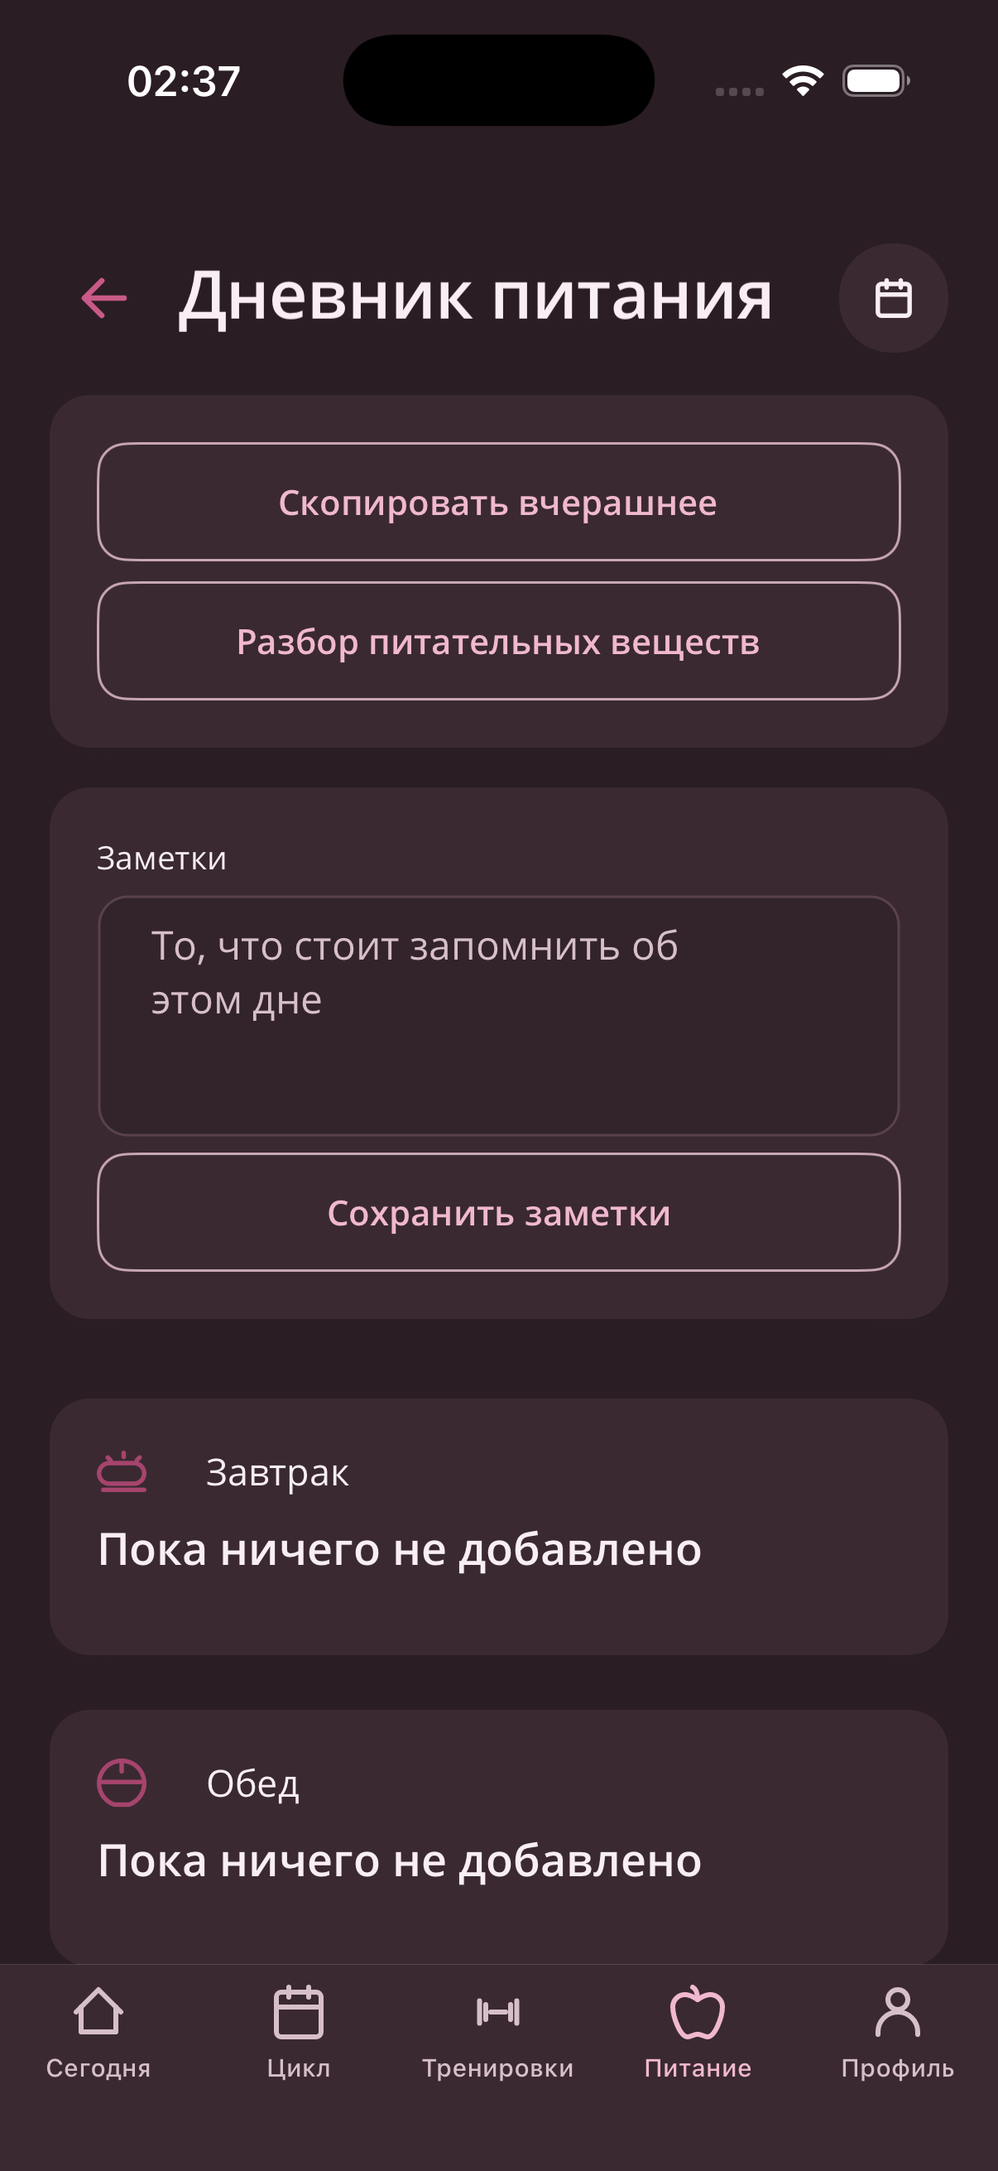
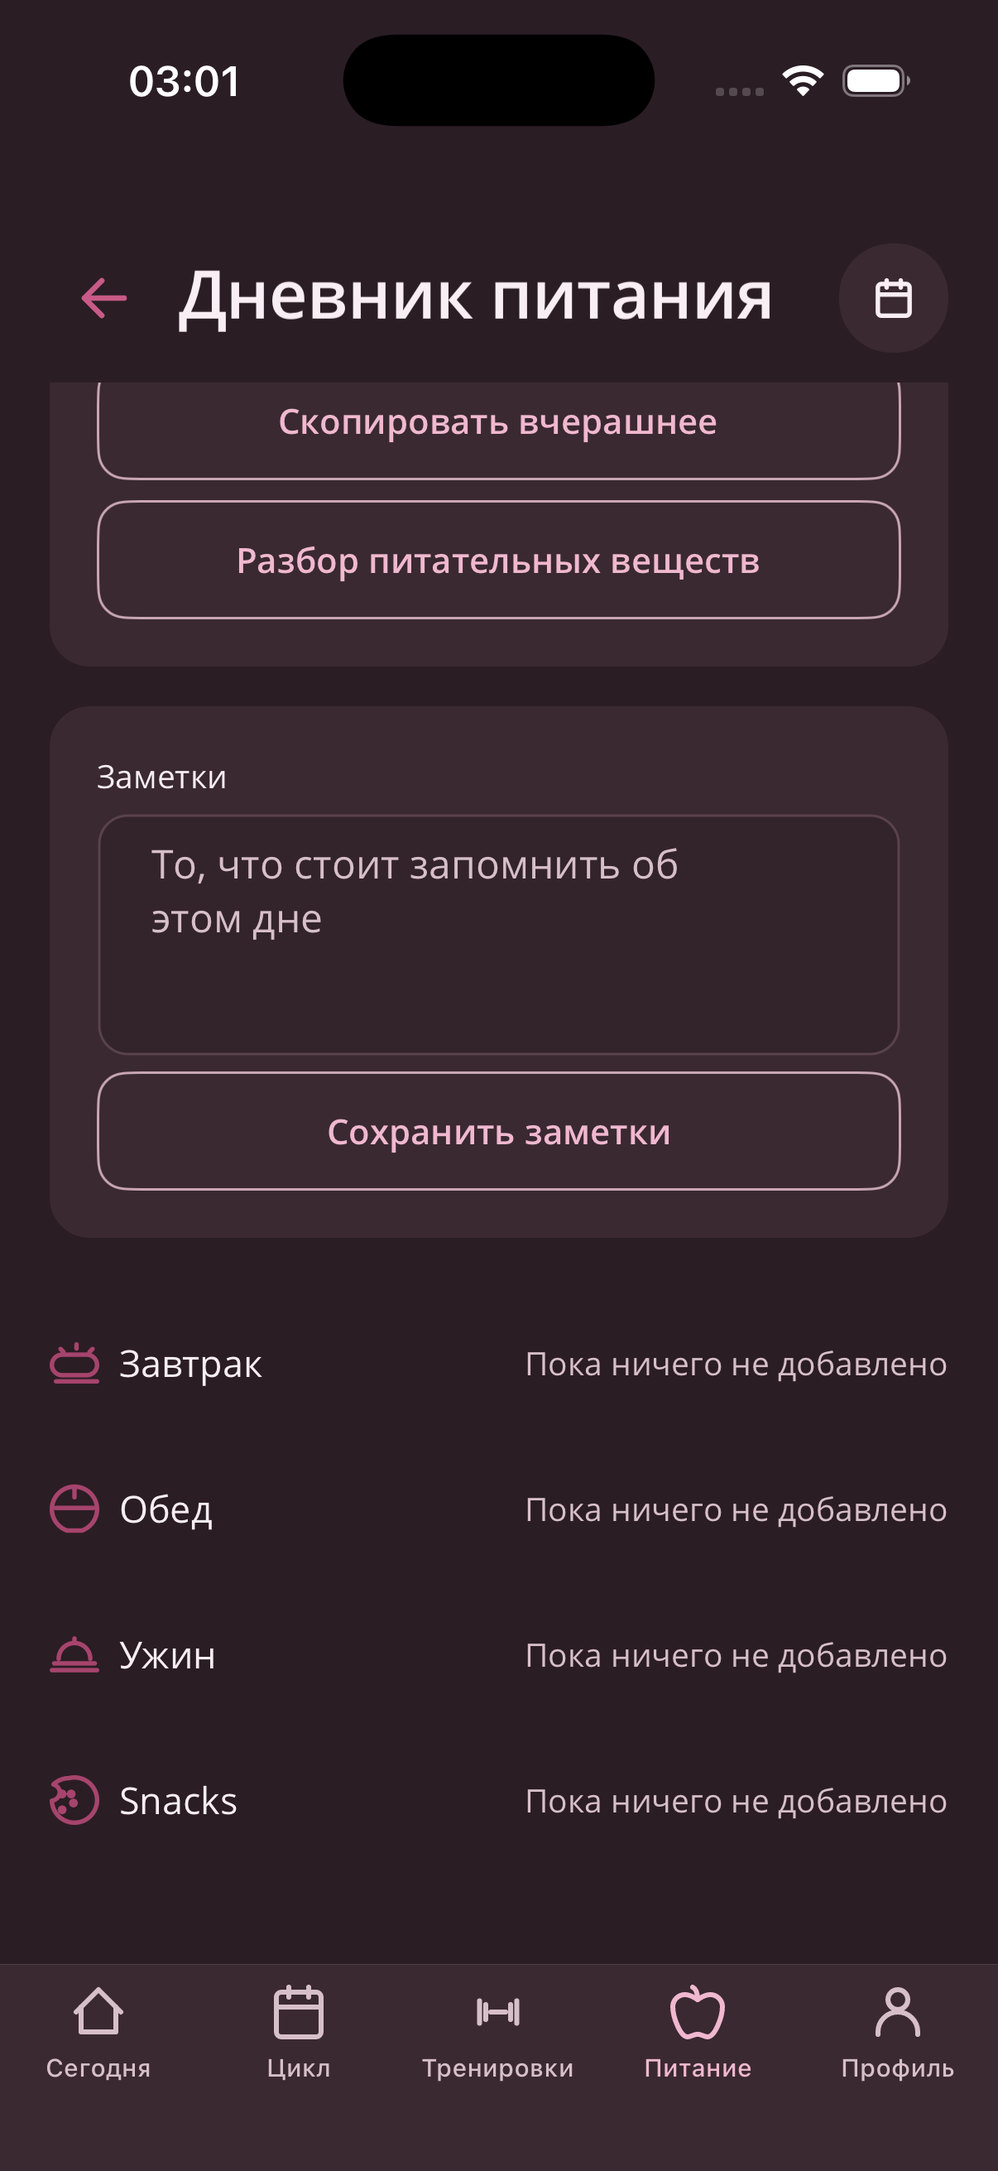
Render empty meal groups as quiet rows instead of cards
MealCardView now owns one rule for every section: the card surface exists only when HasContent, while an empty group is a single icon-and-statement row with no inner border, macros, actions or template slot. The shared control covers all four Food Log sections and Nutrition, and a contract guard freezes the shape.

diff --git a/src/MuscleCuties.UI/Controls/Nutrition/MealCardView.xaml b/src/MuscleCuties.UI/Controls/Nutrition/MealCardView.xaml
@@ -10,9 +10,12 @@
     xmlns:sharedControls="clr-namespace:MuscleCuties.UI.Controls.Shared"
     x:DataType="controls:MealCardView">
 
-    <Border
-        Style="{StaticResource CardPrimary}"
-        SemanticProperties.Description="{Binding SemanticDescription, Source={x:Reference Root}}">
+    <Grid>
+        <Border
+            x:Name="MealCardSurface"
+            IsVisible="{Binding HasContent, Source={x:Reference Root}}"
+            Style="{StaticResource CardPrimary}"
+            SemanticProperties.Description="{Binding SemanticDescription, Source={x:Reference Root}}">
         <Border.GestureRecognizers>
             <TapGestureRecognizer
                 Command="{Binding OpenCommand, Source={x:Reference Root}}"
@@ -116,5 +119,37 @@
 
             <ContentView Content="{Binding BelowContent, Source={x:Reference Root}}" />
         </VerticalStackLayout>
-    </Border>
+        </Border>
+
+        <!-- An empty meal group is a row, not a card. Keeping the icon and meal type gives it a
+             place in the list; the only content is the one empty statement. -->
+        <Grid
+            x:Name="EmptyMealRow"
+            IsVisible="{Binding IsEmpty, Source={x:Reference Root}}"
+            ColumnDefinitions="Auto,*,Auto"
+            ColumnSpacing="{StaticResource UiSpaceTight}"
+            Padding="{StaticResource UiInsets0_8}">
+            <Path
+                Data="{Binding MealTypeIconData, Source={x:Reference Root}, Converter={StaticResource StringToGeometryConverter}}"
+                Style="{StaticResource NutritionLineIcon}"
+                Stroke="{AppThemeBinding Light={StaticResource Primary}, Dark={StaticResource PrimaryDark}}"
+                StrokeThickness="{StaticResource UiStrokeWidth1_8}"
+                WidthRequest="{StaticResource UiDimension20}"
+                HeightRequest="{StaticResource UiDimension20}"
+                VerticalOptions="Center" />
+            <Label
+                Grid.Column="1"
+                Text="{Binding Heading, Source={x:Reference Root}}"
+                Style="{StaticResource BodyStrong}"
+                LineBreakMode="WordWrap"
+                VerticalOptions="Center" />
+            <Label
+                Grid.Column="2"
+                Text="{Binding MealName, Source={x:Reference Root}}"
+                Style="{StaticResource MutedLabel}"
+                HorizontalTextAlignment="End"
+                LineBreakMode="WordWrap"
+                VerticalOptions="Center" />
+        </Grid>
+    </Grid>
 </ContentView>

diff --git a/tests/MuscleCuties.Core.Tests/UiContractGuardTests.cs b/tests/MuscleCuties.Core.Tests/UiContractGuardTests.cs
@@ -328,6 +328,43 @@ public sealed class UiContractGuardTests
     }
 
     /// <summary>
+    /// D12: an empty meal group is one quiet row, not a card shell nested in the list. The card
+    /// surface must be reserved for groups with food; the empty row must not contain a Border,
+    /// calorie/macro blocks or the template action.
+    /// </summary>
+    [Fact]
+    public void D12_empty_meal_group_is_one_row_without_a_card_surface()
+    {
+        var path = Path.Combine(
+            RepositoryRoot(), "src", "MuscleCuties.UI", "Controls", "Nutrition", "MealCardView.xaml");
+        var document = XDocument.Load(path);
+
+        var cardSurface = document.Descendants()
+            .SingleOrDefault(element => element.Name.LocalName == "Border" &&
+                ((string?)element.Attribute("Style"))?.Contains("CardPrimary", StringComparison.Ordinal) == true);
+        Assert.NotNull(cardSurface);
+        Assert.Contains("HasContent", (string?)cardSurface!.Attribute("IsVisible"), StringComparison.Ordinal);
+
+        var emptyRow = document.Descendants()
+            .SingleOrDefault(element => (string?)element.Attribute(XName.Get(
+                "Name", "http://schemas.microsoft.com/winfx/2009/xaml")) == "EmptyMealRow");
+        Assert.NotNull(emptyRow);
+        Assert.Contains("IsEmpty", (string?)emptyRow!.Attribute("IsVisible"), StringComparison.Ordinal);
+        Assert.DoesNotContain(emptyRow.Descendants(), element => element.Name.LocalName == "Border");
+
+        var values = emptyRow.Descendants()
+            .SelectMany(element => element.Attributes())
+            .Select(attribute => attribute.Value)
+            .ToArray();
+        Assert.DoesNotContain(values, value => value.Contains("CaloriesText", StringComparison.Ordinal));
+        Assert.DoesNotContain(values, value => value.Contains("MacrosText", StringComparison.Ordinal));
+        Assert.DoesNotContain(values, value => value.Contains("IngredientsText", StringComparison.Ordinal));
+        Assert.DoesNotContain(values, value => value.Contains("BelowContent", StringComparison.Ordinal));
+        Assert.DoesNotContain(values, value => value.Contains("ShowTemplate", StringComparison.Ordinal));
+        Assert.Single(values, value => value.Contains("{Binding MealName", StringComparison.Ordinal));
+    }
+
+    /// <summary>
     /// The archive card split `Продолжительность` mid-word. The metric header must not wrap at the
     /// card width the app produces.
     /// </summary>

diff --git a/src/MuscleCuties.UI/Controls/Nutrition/MealCardView.xaml.cs b/src/MuscleCuties.UI/Controls/Nutrition/MealCardView.xaml.cs
@@ -40,7 +40,9 @@ public partial class MealCardView : ContentView
         nameof(SemanticDescription), typeof(string), typeof(MealCardView), string.Empty);
 
     public static readonly BindableProperty HasContentProperty = BindableProperty.Create(
-        nameof(HasContent), typeof(bool), typeof(MealCardView), true);
+        nameof(HasContent), typeof(bool), typeof(MealCardView), true,
+        propertyChanged: (bindable, _, _) =>
+            ((MealCardView)bindable).OnPropertyChanged(nameof(IsEmpty)));
 
     public static readonly BindableProperty ShowEditProperty = BindableProperty.Create(
         nameof(ShowEdit), typeof(bool), typeof(MealCardView), true,
@@ -126,6 +128,8 @@ public partial class MealCardView : ContentView
         get => (bool)GetValue(HasContentProperty);
         set => SetValue(HasContentProperty, value);
     }
+
+    public bool IsEmpty => !HasContent;
 
     public bool ShowEdit
     {

diff --git a/STATUS.md b/STATUS.md
@@ -2,38 +2,26 @@
 
 ## 1. Changed files
 
-This pass closed D7, D13 and the archive's mid-word wrap on top of `64a42f65`; D43 is untouched.
+D12's empty meal-group shell is closed on top of `b3d2d652`; D43 is untouched.
 
-- `src/MuscleCuties.UI/Controls/Dashboard/ReadinessRecoveryCard.xaml`,
-  `ViewModels/Dashboard/DashboardViewModel.cs` — the no-record state keeps the `Нужна отметка` pill and
-  one explanation; the duplicate subtitle and tinted prompt box are removed.
-- `src/MuscleCuties.UI/Controls/Dashboard/DashboardWorkoutCard.xaml` — the `ДЕНЬ ОТДЫХА` pill is gone;
-  the title and guidance carry the state.
-- `src/MuscleCuties.UI/Controls/Cycle/CycleCalendarCard.xaml`,
-  `ViewModels/Cycle/CycleViewModel.cs`, `Services/Localization/{RussianUiText,UiTextCatalog}.CycleWorkout.cs`
-  — the hero states the phase once; the calendar card keeps `Запись от 13 нояб.` through the new
-  `Cycle_Calendar_LastLogFormat`, with no repeated `logged` sentence or phase title.
-- `src/MuscleCuties.UI/Pages/Nutrition/FoodLogPage.xaml` — one date on the page; the water card hosts
-  only `HydrationLogView`; `Скопировать вчерашнее` and `Разбор питательных веществ` are two full-width
-  `ButtonSecondary` controls in their own card; `Дневник за вчера` and the second empty sentence are
-  removed.
-- `src/MuscleCuties.UI/Controls/Nutrition/MealCardView.xaml(.cs)` — new `HasContent` flag hides the
-  zero-calorie stack and macro line on an empty group.
-- `src/MuscleCuties.UI/Controls/Profile/ProfileDetailsContent.xaml` — the vault shows one privacy
-  status plus `Показать`.
-- `src/MuscleCuties.UI/Pages/Workout/WorkoutHistoryPage.xaml` — the three-column `AdaptiveRow` is now
-  three stacked label/value rows; `Продолжительность`, `Объем` and `Всего подходов` stay whole.
-- `tests/MuscleCuties.Core.Tests/UiContractGuardTests.cs` — `D7_surfaces_state_each_fact_once`,
+- `src/MuscleCuties.UI/Controls/Nutrition/MealCardView.xaml` — the `CardPrimary` surface is now shown
+  only when `HasContent` is true. An empty group renders as `EmptyMealRow`: a plain `Grid` with the meal
+  icon, meal type and one `Пока ничего не добавлено` statement. It has no inner `Border`, calorie or
+  macro block, template action or `BelowContent`; the divider/action anatomy belongs only to a
+  populated card.
+- `src/MuscleCuties.UI/Controls/Nutrition/MealCardView.xaml.cs` — added `IsEmpty` and refresh it when
+  `HasContent` changes.
+- `tests/MuscleCuties.Core.Tests/UiContractGuardTests.cs` —
+  `D12_empty_meal_group_is_one_row_without_a_card_surface`, seen red on the old unconditional card
+  surface and then green. Existing `D7_surfaces_state_each_fact_once`,
   `D13_water_card_does_not_host_unrelated_actions` and
-  `Archive_duration_header_does_not_wrap_mid_word`; each was run red against the old shape, then green.
-  The D7 guard also asserts that the cycle card no longer repeats the phase title.
-- `docs/qa-evidence/wave-a/` — final-head frames, light and dark:
-  `d7-today-{light,dark}.png`, `d7-cycle-{light,dark}.png`, `d7-foodlog-{light,dark}.png`,
-  `d7-foodlog-empty-light.png`, `d7-profile-{light,dark}.png`, `d7-archive-{light,dark}.png`,
-  `d13-foodlog-actions-{light,dark}.png`. The stale diagnostic `d7-foodlog-empty-light.png` was
-  replaced with the current empty-group frame.
-- `QA_REPORT.md` — D7, D13 and D26 are closed with the guards and new frames; affected plan rows and
-  the Food Log/Archive audit-matrix rows no longer claim the fixed defects.
+  `Archive_duration_header_does_not_wrap_mid_word` remain green.
+- `docs/qa-evidence/wave-a/` — final-head frames: `d12-foodlog-empty-{light,dark}.png` (all four empty
+  sections, no card shells), `d12-nutrition-meal-{light,dark}.png` (populated shared card still
+  renders), and refreshed `d7-foodlog-empty-light.png` / `d13-foodlog-actions-{light,dark}.png` so
+  those earlier rows do not cite the old empty-card shape.
+- `QA_REPORT.md` — row 19 and D12 now record the closed empty-group shape, the guard and the new
+  frames. The meal-editor/breakdown rows no longer claim D12 for their separate nested-card debt.
 
 ## 2. Test commands and pasted output
 
@@ -43,51 +31,42 @@ dotnet build src/MuscleCuties.UI/MuscleCuties.UI.csproj -c Debug -f net10.0-ios 
     0 Error(s)
 
 dotnet test tests/MuscleCuties.Core.Tests
-Passed!  - Failed: 0, Passed: 1403, Skipped: 0, Total: 1403
+Passed!  - Failed: 0, Passed: 1404, Skipped: 0, Total: 1404
 
 dotnet test tests/MuscleCuties.Core.Tests --filter "UiContractGuard|UiStyleGate"
-Passed!  - Failed: 0, Passed: 45, Skipped: 0, Total: 45
+Passed!  - Failed: 0, Passed: 46, Skipped: 0, Total: 46
 ```
 
 Red then green, this pass:
 
 ```
-D7_surfaces_state_each_fact_once
-  RED   Failed  (duplicate prompt/pill/date/empty copy; repeated phase in the cycle card)
-  GREEN Passed
-
-D13_water_card_does_not_host_unrelated_actions
-  RED   Failed  (water card also contained Copy-yesterday, Breakdown and the diary label)
-  GREEN Passed
-
-Archive_duration_header_does_not_wrap_mid_word
-  RED   Failed  (three-column AdaptiveRow with no NoWrap on the duration header)
+D12_empty_meal_group_is_one_row_without_a_card_surface
+  RED   Assert.Contains() Failure: card surface had no HasContent visibility binding
   GREEN Passed
 ```
 
 Driven on simulator `678048F6-C4C7-406C-A970-7104AED3E00A`, installed from
 `src/MuscleCuties.UI/bin/Debug/net10.0-ios/iossimulator-arm64/MuscleCuties.UI.app` after the final
-change. Screenshots were taken with `xcrun simctl io booted screenshot` after each flow settled; Today,
-Cycle, Food Log (summary, empty groups, actions), Profile and the archive list were inspected in light
-and dark.
+change. Food Log empty rows were inspected in light and dark; the populated `MealCardView` was
+inspected on Nutrition in light and dark after logging a synthetic `Chicken feet` entry.
 
 ## 3. What was not verified, and why
 
-- **D43 is the only formatter-family item still open and is parked unchanged.** It needs a wording/design decision: the
-  heading `Исследователь 4-фазы` and chip `NOW`, and which phase-list recipe is canonical (the
-  explorer's four saturated bars or the date sheet's four pink cards). Its date line
-  `среда, 4 ноября 2026 г.` can move to `DateText` once that is settled. No D43 file was edited.
-- D12's full-card empty meal groups remain; this pass removed their duplicated content only. The
-  nested-card cleanup (breakdown, check-in, cycle hero) is unchanged, so D12 is still open as
-  structural debt.
-- Other D-row surfaces were not re-driven in this pass; their cited frames predate this head and were
-  not claimed as current. The frames retaken here cover the surfaces changed by D7, D13 and the archive
-  layout.
+- **D43 is still open and unchanged.** It needs the owner's wording/phase-recipe decision recorded in
+  `QA_REPORT.md`; no D43 file was edited.
+- Food Log displayed `Повторить загрузку этого дня` throughout the visual pass, so its meal data did
+  not load. The all-empty row shape is verified there in both themes; a mixed populated/empty Food Log
+  could not be driven. The populated shared-card branch was verified on Nutrition instead.
+- The screenshots expose the still-open D4 `Snacks` heading in the Russian Food Log; it is not a D12
+  regression and was not changed in this pass.
+- `QA_REPORT.md` still records 34 open findings from earlier audit passes, including D43. D12 is no
+  longer one of them. The report also records 17 closed and 3 withdrawn/retracted findings (D17, D31,
+  D53); rows such as D1, D2, D4, D9, D11, D14, D15, D18–D25, D27, D29, D30, D34–D36, D39–D47, D49 and
+  D52 are not claimed fixed by this pass.
 
 ## 4. Next step
 
-The only product decision blocking the formatter family is D43's wording/recipe choice; D12's
-structural cleanup can proceed without it. Once answered, switch
-the phase list to the chosen recipe, route its date line through `DateText`, close D43 with light/dark
-frames, and then continue with the remaining visual-consistency group (D8, D11, D14, D19, D21, D22,
-D36, D44).
+D12's empty-group shell is complete. The only owner decision blocking the formatter family remains
+D43's wording/recipe choice; after that, continue the remaining open QA rows above. D12's separate
+sheet/hero nested-card examples are now recorded as their own consistency debt rather than folded into
+this closure.

diff --git a/QA_REPORT.md b/QA_REPORT.md
@@ -200,12 +200,12 @@ Nothing is marked PASS on code reading alone.
 | 11 | Nutrition render | Signed in | Open Питание | Shared page header + summary | Rendered without any page header; bespoke pink hero (D2) | FAIL | `t-nutrition.png`, `d2-nutrition.png` |
 | 12 | Meal entry sheet | Nutrition | Tap `Добавить прием пищи` | Compact context, then commit actions | Opens in 24-hour Russian time `01:20` (D10) | PASS | `meal-entry-light.png`, `meal-entry-dark.png` |
 | 13 | Suggest meal sheet | Entry sheet | Tap `Предложить приём пищи` | Suggestion cards | Opens; English food names, descriptions and `Goal: Snack` (D4) | FAIL | hierarchy capture |
-| 14 | Meal editor | Entry sheet | Tap `Добавить прием пищи` | Editor with summary and actions | Opens; exposes no accessible elements (D1); large empty body (D12) | FAIL | `s2-editor.png` |
+| 14 | Meal editor | Entry sheet | Tap `Добавить прием пищи` | Editor with summary and actions | Opens; exposes no accessible elements (D1); large empty body | FAIL | `s2-editor.png` |
 | 15 | Food picker (search tab) | Editor | Tap `Добавить еду` | Search field and results | Opens; still no accessible elements (D1) | FAIL | `s4-foodpick.png` |
 | 16 | Food search submit | Picker | Type a query, search, add | Results and save | BLOCKED by #15: sheet is coordinate-only; not completed | BLOCKED | hierarchy shows only status bar |
-| 17 | Nutrition breakdown | Nutrition | Tap `Микроэлементы` | Sheet with donut, macros, micros | Quantities now from `NutritionFormat`; nested-card layout remains (D12) | PARTIAL | `breakdown-light.png` |
+| 17 | Nutrition breakdown | Nutrition | Tap `Микроэлементы` | Sheet with donut, macros, micros | Quantities now from `NutritionFormat`; nested-card layout remains | PARTIAL | `breakdown-light.png` |
 | 18 | Food log page | Nutrition | Tap `Дневник питания` | Shared header, date strip, rings, meals | Rendered; date appears once, the water card holds only water and the two diary actions have their own equal-width card (D13 closed) | PASS | `d7-foodlog-light.png`, `d7-foodlog-dark.png`, `d13-foodlog-actions-light.png`, `d13-foodlog-actions-dark.png` |
-| 19 | Empty meal groups | Food log | Scroll past summary | One compact empty row per group | Each group is one line: meal name and `Пока ничего не добавлено`; zero macros and the second empty sentence are gone (D7 closed). The groups are still full cards, so D12 remains | PARTIAL | `d13-foodlog-actions-light.png`, `d13-foodlog-actions-dark.png` |
+| 19 | Empty meal groups | Food log | Scroll past summary | One compact empty row per group | Breakfast, lunch, dinner and snacks are one row each: icon, meal type and `Пока ничего не добавлено`, with no card surface, calories, macros, actions or second sentence (D7, D12 closed) | PASS | `d12-foodlog-empty-light.png`, `d12-foodlog-empty-dark.png`; populated card path in `d12-nutrition-meal-light.png`, `d12-nutrition-meal-dark.png` |
 | 20 | Meal card **Edit meal** | Food log / Nutrition | Locate the card's edit action | Reachable action that opens the editor | Card root description hides the action; not reachable by automation/VoiceOver (D1) | BLOCKED | hierarchy: only `Scrambled Eggs with Toast` |
 | 21 | Dark appearance, five tabs | Dark | Visit each tab | Same hierarchy, readable | Captured; contrast holds, D7's duplicated statements are gone, remaining frame defects persist | PARTIAL | `d7-today-dark.png`, `d7-cycle-dark.png`, `d7-foodlog-dark.png`, `d7-profile-dark.png`, `d7-archive-dark.png`, `dk-train.png` |
 | 22 | Dark appearance, sheets | Dark | Re-open sheets | Same sheet styling | Activity chooser and session notes captured in dark and show the same defects as light; check-in, editor, picker and breakdown still light-only | PARTIAL | `sess-dark-3.png`, `notes-sheet.png` |
@@ -448,6 +448,16 @@ Food Log's water card are cut by the tab bar because the scroll content has no b
 Evidence: `dk-train.png`, `fl4-card.png`.
 
 ### D12 — P2 — Nested card shells and oversized empty states
+> **Status: closed.** The empty meal-group shell was the live D12 surface in this pass.
+> `MealCardView` now renders its `CardPrimary`
+> surface only when `HasContent`; an empty group is a plain `EmptyMealRow` with the meal icon, meal
+> type and one `Пока ничего не добавлено` statement. It has no inner `Border`, calorie/macro block,
+> template action or `BelowContent`. The same shared control backs all four Food Log sections and the
+> Nutrition meal cards, so the shape is not patched per page. Guard
+> `D12_empty_meal_group_is_one_row_without_a_card_surface` was seen red on the old card surface, then
+> green. Driven in both themes on the final build: `d12-foodlog-empty-{light,dark}.png`, and the
+> populated card in `d12-nutrition-meal-{light,dark}.png`. The sheet/hero nesting examples in the historical
+> reproduction below are separate consistency debt and are not claimed by this closure.
 **Reproduced in the running app.** The check-in sheet contains two full cards inside the sheet surface;
 the Cycle hero contains two tinted sub-cards; each of twelve micronutrients in the breakdown sheet is a
 full card; the meal editor's body is a large blank area under a disabled pink commit; empty meal groups
